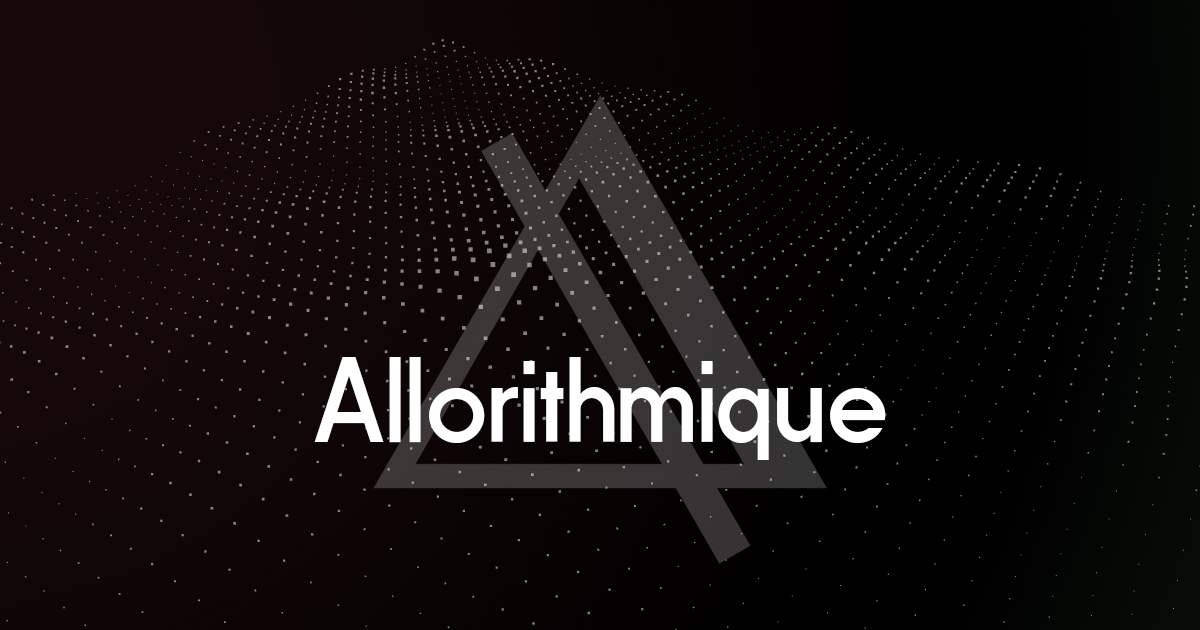
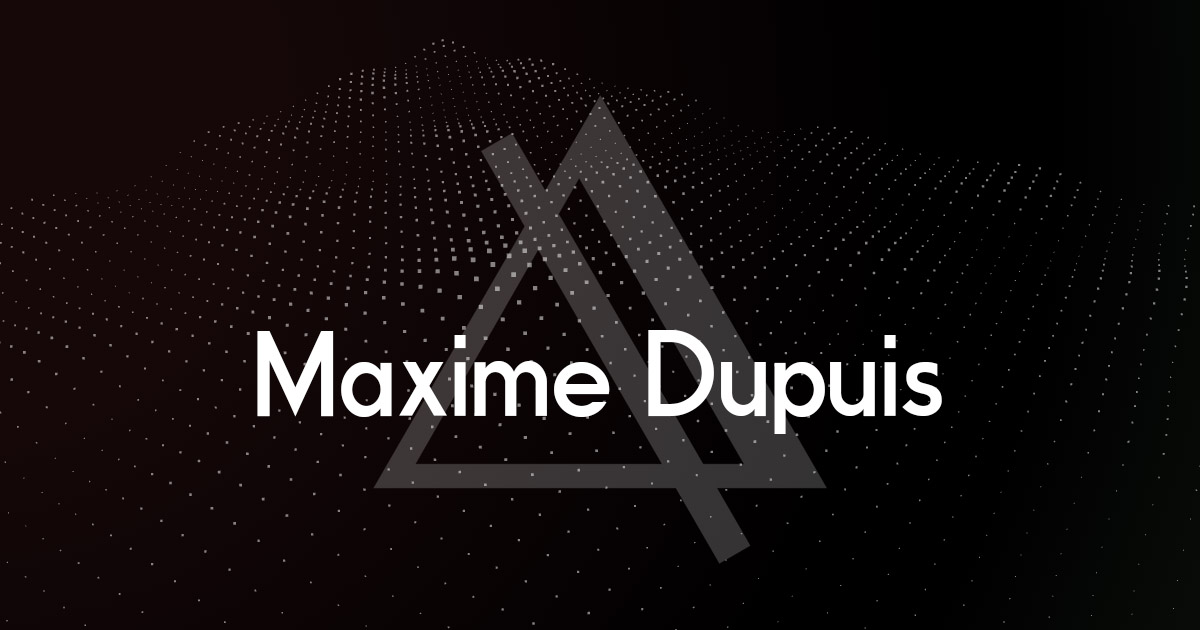
updated OpenGraph info

Changed region(s): [[0.2158, 0.5127, 0.8017, 0.7238]]

diff --git a/src/index.html b/src/index.html
@@ -7,19 +7,19 @@
 
     <!-- Twitter Card data -->
     <meta name="twitter:card" content="summary_large_image">
-    <meta name="twitter:site" content="https://allorithmique.com">
-    <meta name="twitter:title" content="Allorithmique">
-    <meta name="twitter:description" content="Développement web">
-    <meta name="twitter:image:src" content="https://allorithmique.com/static/og-thumbnail.jpg">
+    <meta name="twitter:site" content="https://maxdup.dev">
+    <meta name="twitter:title" content="Maxime Dupuis">
+    <meta name="twitter:description" content="Web Developer">
+    <meta name="twitter:image:src" content="https://maxdup.dev/static/og-thumbnail.jpg">
     <!-- Open Graph data -->
-    <meta property="og:title" content="Allorithmique" />
+    <meta property="og:title" content="Maxime Dupuis" />
     <meta property="og:type" content="website" />
-    <meta property="og:url" content="https://allorithmique.com" />
-    <meta property="og:image" content="https://allorithmique.com/static/og-thumbnail.jpg" />
-    <meta property="og:site_name" content="allorithmique.com" />
+    <meta property="og:url" content="https://maxdup.dev" />
+    <meta property="og:image" content="https://maxdup.dev/static/og-thumbnail.jpg" />
+    <meta property="og:site_name" content="maxdup.dev" />
     <!-- Metadata -->
-    <meta name="description" content="Équipe de développement web basée à Montréal se démarquant par son expérience multimédia et son expertise téchnique">
-    <meta name="keywords" content="programmation, conception, développement, multimédia, marketing numérique, web, site web, website, allorithmique">
+    <meta name="description" content="Montréal based web developer expertise">
+    <meta name="keywords" content="programming, development, developer, web, website, maxdup">
   </head>
 
   <body id="maxdup">
